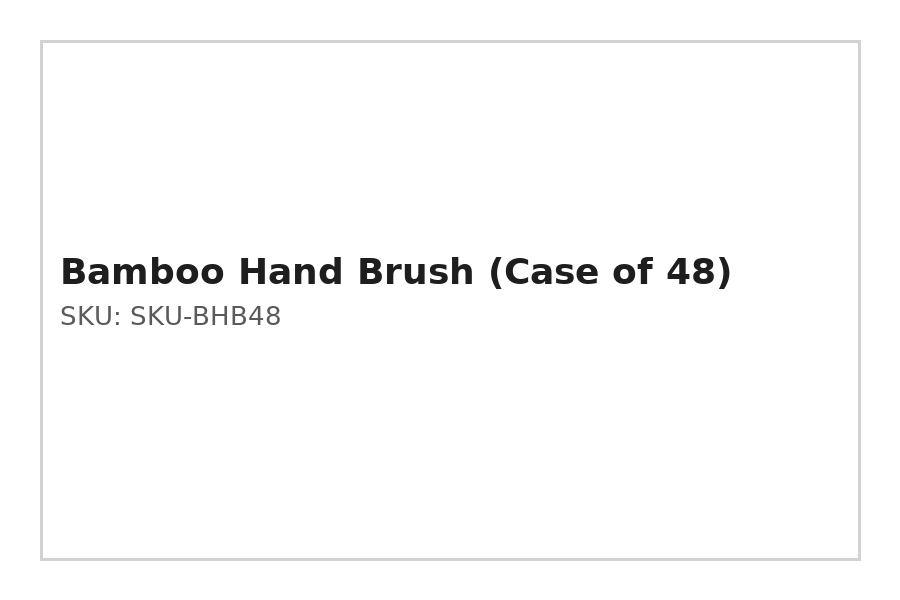
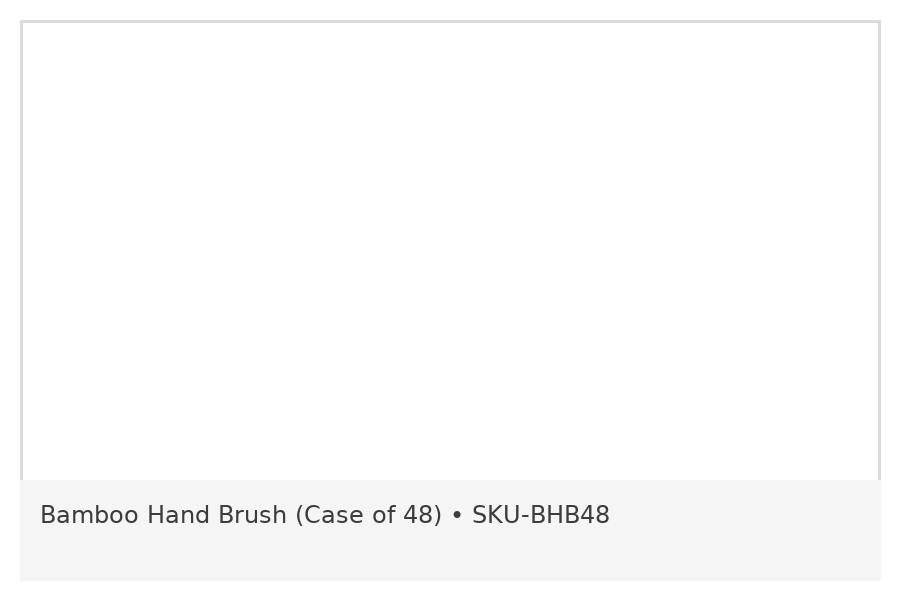
Add files via upload

Changed region(s): [[0.0, 0.03, 0.9956, 0.96]]

diff --git a/index.html b/index.html
@@ -3,57 +3,39 @@
 <head>
   <meta charset="UTF-8" />
   <meta name="viewport" content="width=device-width, initial-scale=1.0" />
-  <title>Serrano Collective | Wholesale Distribution & Partnerships</title>
+  <title>Serrano Collective | Wholesale Catalog</title>
   <link rel="icon" type="image/png" href="favicon.png">
-  <meta name="description" content="Florida-based wholesale distributor for brand-direct and authorized partners. Transparent operations, compliance-first.">
-  <link href="https://fonts.googleapis.com/css2?family=Inter:wght@400;600;700&display=swap" rel="stylesheet" />
   <style>
+    :root {
+      --bg:#f8fafc; --text:#0f172a; --muted:#64748b; --card:#ffffff; --line:#e2e8f0; --brand:#111827;
+    }
     * { box-sizing: border-box; }
-    body { font-family: 'Inter', system-ui, -apple-system, Arial, sans-serif; margin:0; color:#1f2937; background:#f9fafb; }
-    header { background:#111827; color:#fff; padding:2rem 1rem; text-align:center; }
-    .hero { background:url('banner.png') center/cover no-repeat; height:220px; border-radius:10px; margin-bottom:1rem; }
-    nav a { color:#e5e7eb; text-decoration:none; margin:0 .8rem; font-weight:600; }
-    .container { max-width:1100px; margin:2rem auto; padding:2rem; background:#fff; border-radius:10px; box-shadow:0 10px 30px rgba(0,0,0,.06);}
-    h2 { border-bottom:2px solid #e5e7eb; padding-bottom:.4rem; }
-    a.button, button.button { background:#111827; color:#fff; padding:.6rem 1rem; border-radius:8px; text-decoration:none; border:none; cursor:pointer; }
-    .grid { display:grid; grid-template-columns: repeat(auto-fit, minmax(240px,1fr)); gap:1rem; }
-    .card { border:1px solid #e5e7eb; border-radius:10px; overflow:hidden; background:#fff; }
-    .card-body { padding:1rem; display:flex; flex-direction:column; gap:.5rem; }
-    .price { font-weight:700; color:#111827; }
-    .muted { color:#6b7280; font-size:.92rem; }
-    .qty { width:84px; padding:.45rem; border:1px solid #d1d5db; border-radius:6px; }
+    body { margin:0; background:var(--bg); color:var(--text); font-family: Inter, system-ui, -apple-system, Arial, sans-serif; font-size:18px; line-height:1.6; }
+    header { background:var(--brand); color:#fff; text-align:center; padding:2rem 1rem; }
+    header h1 { margin:.25rem 0 .25rem; font-size:2.2rem; }
+    header p { margin:0; color:#cbd5e1; }
+    nav { margin-top:.75rem; }
+    nav a { color:#e5e7eb; text-decoration:none; margin:0 .75rem; font-weight:600; }
+    .container { max-width:1100px; margin:2rem auto; background:var(--card); border:1px solid var(--line); border-radius:14px; padding:2rem; box-shadow:0 10px 30px rgba(2,6,23,.06); }
+    h2 { font-size:1.6rem; margin-top:0; padding-bottom:.5rem; border-bottom:2px solid var(--line); }
+    .notice { background:#f1f5f9; border:1px solid var(--line); padding:1rem; border-radius:10px; }
+    .grid { display:grid; grid-template-columns: repeat(auto-fit, minmax(250px, 1fr)); gap:1.2rem; }
+    .card { background:#fff; border:1px solid var(--line); border-radius:16px; overflow:hidden; box-shadow:0 4px 18px rgba(2,6,23,.05); transition:transform .15s ease; }
+    .card:hover { transform: translateY(-2px); }
+    .card img { width:100%; display:block; aspect-ratio: 3 / 2; object-fit: cover; }
+    .card-body { padding:1rem; }
+    .price { font-weight:800; font-size:1.1rem; }
+    .muted { color:var(--muted); font-size:.98rem; }
+    .qty { width:92px; padding:.55rem; font-size:1rem; border:1px solid var(--line); border-radius:8px; }
+    .button { background:var(--brand); color:#fff; padding:.6rem 1rem; border-radius:10px; text-decoration:none; border:none; cursor:pointer; font-weight:700; }
     table { width:100%; border-collapse:collapse; }
-    th, td { padding:.6rem; border-bottom:1px solid #e5e7eb; text-align:left; }
+    th, td { padding:.7rem; border-bottom:1px solid var(--line); text-align:left; }
     .right { text-align:right; }
-    .notice { background:#f3f4f6; border:1px solid #e5e7eb; padding:1rem; border-radius:8px; }
-    .badges { display:flex; gap:.5rem; flex-wrap:wrap; }
-    .badge { background:#f3f4f6; border:1px solid #e5e7eb; padding:.35rem .6rem; border-radius:999px; font-size:.85rem; }
-    footer { background:#1e293b; color:#fff; text-align:center; padding:1.5rem; margin-top:2rem; }
-    input, textarea { border:1px solid #e5e7eb; border-radius:6px; padding:.6rem; }
+    input, textarea { font-size:1rem; border:1px solid var(--line); border-radius:8px; padding:.6rem; }
   </style>
-  <script type="application/ld+json">
-  {
-    "@context": "https://schema.org",
-    "@type": "Organization",
-    "name": "Serrano Collective",
-    "url": "https://serranocollective.com",
-    "logo": "https://serranocollective.com/logo.png",
-    "address": {
-      "@type": "PostalAddress",
-      "streetAddress": "7529 NW 104th Ave",
-      "addressLocality": "Doral",
-      "addressRegion": "FL",
-      "postalCode": "33178",
-      "addressCountry": "US"
-    },
-    "contactPoint": [{ "@type":"ContactPoint","email":"info@serranocollective.com","contactType":"sales" }]
-  }
-  </script>
 </head>
 <body>
   <header>
-    <div class="hero"></div>
-    <img src="logo.png" alt="Serrano Collective Logo" style="max-width:160px; margin-bottom:.75rem;">
     <h1>Serrano Collective</h1>
     <p>Wholesale Solutions. Strategic Distribution. Trusted Partnerships.</p>
     <nav>
@@ -61,102 +43,15 @@
       <a href="#cart">Cart</a>
       <a href="#checkout">Checkout</a>
       <a href="#credentials">Credentials</a>
-      <a href="#intake">Supplier Intake</a>
-      <a href="#downloads">Documents</a>
+      <a href="#documents">Documents</a>
       <a href="#contact">Contact</a>
     </nav>
   </header>
 
   <div class="container" id="store">
     <h2>Catalog Preview</h2>
-    <p class="notice">This storefront is a <strong>B2B catalog preview</strong> for onboarding and evaluation. Retail pricing and MAP policies honored. Volume pricing and wholesale terms available upon approval.</p>
-    <div class="grid">
-      
-    <div class="card">
-      <img src="store_images/SKU-MCF24.png" alt="Microfiber Cloths (Case of 24)">
-      <div class="card-body">
-        <div><strong>Microfiber Cloths (Case of 24)</strong></div>
-        <div class="muted">SKU: SKU-MCF24 · Case Size: 24 · MOQ: 2 case(s)</div>
-        <div class="price">$28.80 / case</div>
-        <div>
-          <input type="number" class="qty" min="2" step="1" value="2" id="qty-SKU-MCF24">
-          <button class="button" onclick="addToCart('SKU-MCF24')">Add to Cart</button>
-        </div>
-      </div>
-    </div>
-    
-
-    <div class="card">
-      <img src="store_images/SKU-SWB12.png" alt="Stainless Water Bottle 24oz (Case of 12)">
-      <div class="card-body">
-        <div><strong>Stainless Water Bottle 24oz (Case of 12)</strong></div>
-        <div class="muted">SKU: SKU-SWB12 · Case Size: 12 · MOQ: 1 case(s)</div>
-        <div class="price">$66.00 / case</div>
-        <div>
-          <input type="number" class="qty" min="1" step="1" value="1" id="qty-SKU-SWB12">
-          <button class="button" onclick="addToCart('SKU-SWB12')">Add to Cart</button>
-        </div>
-      </div>
-    </div>
-    
-
-    <div class="card">
-      <img src="store_images/SKU-BHB48.png" alt="Bamboo Hand Brush (Case of 48)">
-      <div class="card-body">
-        <div><strong>Bamboo Hand Brush (Case of 48)</strong></div>
-        <div class="muted">SKU: SKU-BHB48 · Case Size: 48 · MOQ: 1 case(s)</div>
-        <div class="price">$84.00 / case</div>
-        <div>
-          <input type="number" class="qty" min="1" step="1" value="1" id="qty-SKU-BHB48">
-          <button class="button" onclick="addToCart('SKU-BHB48')">Add to Cart</button>
-        </div>
-      </div>
-    </div>
-    
-
-    <div class="card">
-      <img src="store_images/SKU-NTK20.png" alt="Notebook A5 Hard Cover (Case of 20)">
-      <div class="card-body">
-        <div><strong>Notebook A5 Hard Cover (Case of 20)</strong></div>
-        <div class="muted">SKU: SKU-NTK20 · Case Size: 20 · MOQ: 2 case(s)</div>
-        <div class="price">$70.00 / case</div>
-        <div>
-          <input type="number" class="qty" min="2" step="1" value="2" id="qty-SKU-NTK20">
-          <button class="button" onclick="addToCart('SKU-NTK20')">Add to Cart</button>
-        </div>
-      </div>
-    </div>
-    
-
-    <div class="card">
-      <img src="store_images/SKU-CBL50.png" alt="USB-C Charging Cable 1m (Case of 50)">
-      <div class="card-body">
-        <div><strong>USB-C Charging Cable 1m (Case of 50)</strong></div>
-        <div class="muted">SKU: SKU-CBL50 · Case Size: 50 · MOQ: 1 case(s)</div>
-        <div class="price">$125.00 / case</div>
-        <div>
-          <input type="number" class="qty" min="1" step="1" value="1" id="qty-SKU-CBL50">
-          <button class="button" onclick="addToCart('SKU-CBL50')">Add to Cart</button>
-        </div>
-      </div>
-    </div>
-    
-
-    <div class="card">
-      <img src="store_images/SKU-GLV60.png" alt="Nitrile Gloves M (Case of 60)">
-      <div class="card-body">
-        <div><strong>Nitrile Gloves M (Case of 60)</strong></div>
-        <div class="muted">SKU: SKU-GLV60 · Case Size: 60 · MOQ: 2 case(s)</div>
-        <div class="price">$90.00 / case</div>
-        <div>
-          <input type="number" class="qty" min="2" step="1" value="2" id="qty-SKU-GLV60">
-          <button class="button" onclick="addToCart('SKU-GLV60')">Add to Cart</button>
-        </div>
-      </div>
-    </div>
-    
-    </div>
-    <p class="muted">Prices shown are <strong>case prices</strong>. MOQ applies per SKU. Orders must be in multiples of the case size.</p>
+    <p class="notice"><strong>B2B preview:</strong> Pricing is per case. MOQ applies per SKU. Volume pricing and wholesale terms available upon approval.</p>
+    <div class="grid" id="productGrid"></div>
   </div>
 
   <div class="container" id="cart">
@@ -171,14 +66,14 @@
 
   <div class="container" id="checkout">
     <h2>Checkout (Invoice Request)</h2>
-    <p class="muted">For wholesale orders, we issue a pro‑forma invoice. No payment is collected on this page.</p>
+    <p class="muted">No payment collected on this page. We issue a pro‑forma invoice after review.</p>
     <form id="checkoutForm" action="https://formsubmit.co/info@serranocollective.com" method="POST">
       <input type="hidden" name="_subject" value="Wholesale Checkout | Serrano Collective">
       <input type="hidden" name="_template" value="table">
       <input type="hidden" name="_captcha" value="false">
       <input type="hidden" name="_next" value="/#checkout">
       <h3>Billing Details</h3>
-      <div style="display:grid; gap:1rem; grid-template-columns:repeat(auto-fit, minmax(220px,1fr));">
+      <div style="display:grid; gap:1rem; grid-template-columns:repeat(auto-fit, minmax(240px,1fr));">
         <input placeholder="Company Name" name="company" required>
         <input placeholder="Contact Name" name="name" required>
         <input type="email" placeholder="Email" name="email" required>
@@ -189,7 +84,7 @@
         <input placeholder="ZIP" name="billzip" required>
       </div>
       <h3 style="margin-top:1rem;">Shipping Details</h3>
-      <div style="display:grid; gap:1rem; grid-template-columns:repeat(auto-fit, minmax(220px,1fr));">
+      <div style="display:grid; gap:1rem; grid-template-columns:repeat(auto-fit, minmax(240px,1fr));">
         <input placeholder="Recipient Name" name="shipname" required>
         <input placeholder="Shipping Address" name="shipaddr" required>
         <input placeholder="City" name="shipcity" required>
@@ -200,49 +95,26 @@
       <textarea name="order_summary" id="order_summary" rows="6" style="width:100%; margin-top:1rem;" placeholder="Order Summary (auto-filled)" readonly></textarea>
       <button type="submit" class="button">Submit for Invoice</button>
     </form>
-    <p class="muted" style="margin-top:.75rem;">After submission, we will email a pro‑forma invoice and lead times.</p>
   </div>
 
   <div class="container" id="credentials">
     <h2>Credentials & Compliance</h2>
-    <div class="badges">
-      <span class="badge">✅ Florida Registered</span>
-      <span class="badge">✅ Active Resale Certificate</span>
-      <span class="badge">✅ NDA on Request</span>
-      <span class="badge">✅ MAP Compliance</span>
-      <span class="badge">✅ Transparent Reporting</span>
-    </div>
     <ul>
-      <li><strong>Business Address:</strong> 7529 NW 104th Ave, Doral, FL 33178</li>
+      <li><strong>Florida Registered</strong> · Active LLC</li>
       <li><strong>Resale Certificate:</strong> Available upon request</li>
-      <li><strong>Documentation:</strong> All files and agreements are kept current and verified</li>
+      <li><strong>NDA Agreement:</strong> Signed upon request</li>
+      <li><strong>MAP & Channel Compliance</strong> respected</li>
+      <li><strong>Transparent Reporting</strong> & communications</li>
     </ul>
   </div>
 
-  <div class="container" id="intake">
-    <h2>Supplier Intake Form</h2>
-    <p>We welcome inquiries from verified distributors, manufacturers, and brands. Please complete the form below.</p>
-    <form action="https://formsubmit.co/info@serranocollective.com" method="POST">
-      <input type="hidden" name="_subject" value="Supplier Intake | Serrano Collective">
-      <input type="hidden" name="_captcha" value="false">
-      <div style="display:grid; gap:1rem; grid-template-columns:repeat(auto-fit, minmax(240px,1fr));">
-        <input type="text" name="name" placeholder="Full Name" required>
-        <input type="text" name="company" placeholder="Business Name" required>
-        <input type="email" name="email" placeholder="Email" required>
-        <input type="tel" name="phone" placeholder="Phone">
-      </div>
-      <textarea name="message" rows="5" style="width:100%; margin-top:1rem;" placeholder="Tell us about your line, MOQ, MAP, fulfillment timelines, and any requirements."></textarea>
-      <label><input type="checkbox" name="callback"> Request a callback</label><br><br>
-      <button type="submit" class="button">Submit</button>
-    </form>
-  </div>
-
-  <div class="container" id="downloads">
+  <div class="container" id="documents">
     <h2>Documents</h2>
+    <p class="muted">To protect proprietary information, the following are provided on request after verification:</p>
     <ul>
-      <li><a href="docs/Serrano_Collective_Reseller_Application.pdf" target="_blank">Reseller Application (PDF)</a></li>
-      <li><a href="docs/Serrano_Collective_NDA_Template.pdf" target="_blank">NDA Template (PDF)</a></li>
-      <li><a href="docs/Serrano_Collective_Resale_Certificate.pdf" target="_blank">Resale Certificate (PDF)</a></li>
+      <li>Reseller Application — <em>Available upon request</em></li>
+      <li>NDA Template — <em>Available upon request</em></li>
+      <li>Florida Resale Certificate — <em>Available upon request</em></li>
     </ul>
   </div>
 
@@ -251,46 +123,57 @@
     <p>Email: <a href="mailto:info@serranocollective.com">info@serranocollective.com</a></p>
   </div>
 
-  <footer>
-    <p>&copy; 2025 Serrano Collective. All rights reserved.</p>
-  </footer>
-
   <script>
-    // Storefront JS (clean, no duplicates)
-    const products = [{'id': 'SKU-MCF24', 'name': 'Microfiber Cloths (Case of 24)', 'price': 28.8, 'moq': 2, 'caseQty': 24}, {'id': 'SKU-SWB12', 'name': 'Stainless Water Bottle 24oz (Case of 12)', 'price': 66.0, 'moq': 1, 'caseQty': 12}, {'id': 'SKU-BHB48', 'name': 'Bamboo Hand Brush (Case of 48)', 'price': 84.0, 'moq': 1, 'caseQty': 48}, {'id': 'SKU-NTK20', 'name': 'Notebook A5 Hard Cover (Case of 20)', 'price': 70.0, 'moq': 2, 'caseQty': 20}, {'id': 'SKU-CBL50', 'name': 'USB-C Charging Cable 1m (Case of 50)', 'price': 125.0, 'moq': 1, 'caseQty': 50}, {'id': 'SKU-GLV60', 'name': 'Nitrile Gloves M (Case of 60)', 'price': 90.0, 'moq': 2, 'caseQty': 60}];
+    const products = [{"id": "SKU-MCF24", "name": "Microfiber Cloths (Case of 24)", "price": 28.8, "moq": 2, "caseQty": 24}, {"id": "SKU-SWB12", "name": "Stainless Water Bottle 24oz (Case of 12)", "price": 66.0, "moq": 1, "caseQty": 12}, {"id": "SKU-BHB48", "name": "Bamboo Hand Brush (Case of 48)", "price": 84.0, "moq": 1, "caseQty": 48}, {"id": "SKU-NTK20", "name": "Notebook A5 Hard Cover (Case of 20)", "price": 70.0, "moq": 2, "caseQty": 20}, {"id": "SKU-CBL50", "name": "USB-C Charging Cable 1m (Case of 50)", "price": 125.0, "moq": 1, "caseQty": 50}, {"id": "SKU-GLV60", "name": "Nitrile Gloves M (Case of 60)", "price": 90.0, "moq": 2, "caseQty": 60}];
+    const grid = document.getElementById('productGrid');
     const cart = JSON.parse(localStorage.getItem('sc_cart') || '[]');
     const cartBody = document.querySelector('#cartTable tbody');
     const cartSubtotal = document.getElementById('cartSubtotal');
 
-    function saveCart(){ localStorage.setItem('sc_cart', JSON.stringify(cart)); }
-    function addToCart(id){ 
+    function format(n) { return `$${n.toFixed(2)}`; }
+    function saveCart() { localStorage.setItem('sc_cart', JSON.stringify(cart)); }
+    function renderProducts() {
+      grid.innerHTML = products.map(p => `
+        <div class="card">
+          <img src="store_images/${p.id}.png" alt="${p.name}">
+          <div class="card-body">
+            <div style="font-size:1.05rem; font-weight:700;">${p.name}</div>
+            <div class="muted">SKU: ${p.id} · Case Size: ${p.caseQty} · MOQ: ${p.moq} case(s)</div>
+            <div class="price">${format(p.price)} / case</div>
+            <div style="margin-top:.5rem;">
+              <input type="number" class="qty" min="${p.moq}" step="1" value="${p.moq}" id="qty-${p.id}">
+              <button class="button" onclick="addToCart('${p.id}')">Add to Cart</button>
+            </div>
+          </div>
+        </div>`).join('');
+    }
+    function addToCart(id) {
       const p = products.find(x => x.id === id);
       let cases = parseInt(document.getElementById('qty-'+id).value || p.moq, 10);
       if (isNaN(cases) || cases < p.moq) cases = p.moq;
-      const e = cart.find(x => x.id === id);
-      if (e) e.cases += cases; else cart.push({id:p.id, name:p.name, price:p.price, cases, caseQty:p.caseQty});
+      const existing = cart.find(x => x.id === id);
+      if (existing) existing.cases += cases; else cart.push({ id:p.id, name:p.name, price:p.price, cases, caseQty:p.caseQty });
       saveCart(); renderCart(); location.hash = '#cart';
     }
-    function updateCases(id, val){ const it = cart.find(x => x.id===id); if(!it) return; it.cases = Math.max(1, parseInt(val||'1',10)); saveCart(); renderCart(); }
-    function removeItem(id){ const i = cart.findIndex(x=>x.id===id); if(i>-1){ cart.splice(i,1); saveCart(); renderCart(); } }
-    function renderCart(){ 
+    function updateCases(id, val) { const it = cart.find(x => x.id===id); if(!it) return; it.cases = Math.max(1, parseInt(val||'1',10)); saveCart(); renderCart(); }
+    function removeItem(id) { const i = cart.findIndex(x=>x.id===id); if(i>-1) { cart.splice(i,1); saveCart(); renderCart(); } }
+    function renderCart() {
       let subtotal = 0;
-      cartBody.innerHTML = cart.map(it => { 
-        const line = it.price * it.cases; subtotal += line;
+      cartBody.innerHTML = cart.map(item => {
+        const line = item.price * item.cases; subtotal += line;
         return `<tr>
-          <td>${it.name}<div class="muted">${it.id} · ${it.caseQty} units/case</div></td>
-          <td><input type="number" min="1" step="1" value="${it.cases}" onchange="updateCases('${it.id}', this.value)" class="qty"></td>
-          <td class="right">$${it.price.toFixed(2)} / case</td>
-          <td class="right">$${line.toFixed(2)}</td>
-          <td><button class="button" style="padding:.35rem .6rem;" onclick="removeItem('${it.id}')">Remove</button></td>
-        </tr>`; 
+          <td>${item.name}<div class="muted">${item.id} · ${item.caseQty} units/case</div></td>
+          <td><input type="number" min="1" step="1" value="${item.cases}" onchange="updateCases('${item.id}', this.value)" class="qty"></td>
+          <td class="right">${format(item.price)} / case</td>
+          <td class="right">${format(line)}</td>
+          <td><button class="button" style="padding:.35rem .6rem;" onclick="removeItem('${item.id}')">Remove</button></td>
+        </tr>`;
       }).join('');
-      cartSubtotal.textContent = `$${subtotal.toFixed(2)}`;
+      cartSubtotal.textContent = format(subtotal);
       const summary = cart.map(i => `${i.name} (${i.id}) — ${i.cases} case(s) · ${i.caseQty} units/case`).join('\n');
-      const summaryEl = document.getElementById('order_summary');
-      if (summaryEl) summaryEl.value = summary || 'No items yet.';
+      const summaryEl = document.getElementById('order_summary'); if(summaryEl) summaryEl.value = summary || 'No items yet.';
     }
-    document.addEventListener('DOMContentLoaded', ()=>{ renderCart(); });
+    document.addEventListener('DOMContentLoaded', () => { renderProducts(); renderCart(); });
   </script>
 </body>
 </html>
